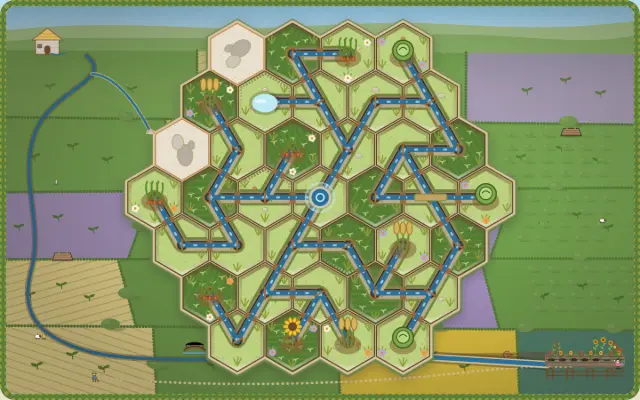
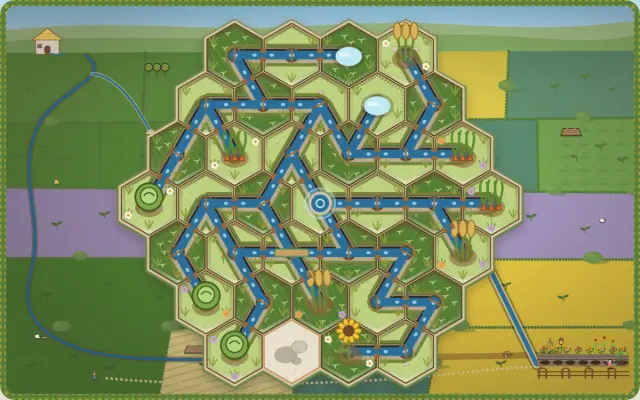
Runnel (plan item 646 slice 1): the channels cut 1.35x wider (banks, lips, hub) and the water a ribbon 1.75x item 97's, its glints sparser, so the water reads from across the room; key art re-shot
Claude-Session: https://claude.ai/code/session_01SimvMN1RHBGCWN7Eo7MzhN

diff --git a/games/runnel/src/board.ts b/games/runnel/src/board.ts
@@ -9,6 +9,10 @@ import { boardHexes, computeFlow, currentMask, DIRECTIONS, hashString, neighbour
 
 const SVG = 'http://www.w3.org/2000/svg'
 const S = 50 // hex circumradius in SVG units
+/** Plan item 646: the channel's width (banks, lips, hub) over item 61's, and the water's, so the water reads as a
+ *  running ribbon from across the room rather than a thin line (CSS widths scale with them). */
+const CW = 1.35
+const WATER_W = 1.75
 /** Plan item 264: how far a tile's side shows under its face (SVG units). */
 const TILE_SIDE = 5
 const APOTHEM = (S * Math.sqrt(3)) / 2
@@ -367,20 +371,20 @@ export class Board {
       const nx = -Math.sin(a)
       const ny = Math.cos(a)
       for (const side of [1, -1] as const) {
-        const o = 4.6 * side
+        const o = 4.6 * CW * side
         const line = el('line', { x1: nx * o, y1: ny * o, x2: end.x + nx * o, y2: end.y + ny * o, class: 'bank' }, grooves)
         view.banks.push({ line, dir: d, side })
         // Plan item 97: the cut edge on the shaded side throws a shadow down its wall (hidden on the sunlit side),
         // so the ditch reads as dug into the soil rather than laid on it.
-        const c = 7.9 * side
+        const c = 7.9 * CW * side
         const cast = el('line', { x1: nx * c, y1: ny * c, x2: end.x + nx * c, y2: end.y + ny * c, class: 'bank-cast' }, grooves)
         view.banks.push({ line: cast, dir: d, side })
         // The shaded wall's foot darkens into the damp bed (the sunlit wall stays lit to the bed).
-        const f = 3.6 * side
+        const f = 3.6 * CW * side
         const foot = el('line', { x1: nx * f, y1: ny * f, x2: end.x + nx * f, y2: end.y + ny * f, class: 'bank-foot' }, grooves)
         view.banks.push({ line: foot, dir: d, side })
         // A ragged cut edge: spoil from the digging thrown just past the lip, so the edge is not ruled.
-        const r = 11.4 * side
+        const r = 11.4 * CW * side
         const crumb = el('line', { x1: nx * r, y1: ny * r, x2: end.x + nx * r, y2: end.y + ny * r, class: 'lip-crumb' }, grooves)
         crumb.style.setProperty('stroke-dashoffset', `${((seed >>> (d * 3 + (side > 0 ? 1 : 0))) % 7) * 0.9}`)
       }
@@ -389,7 +393,7 @@ export class Board {
       const h = (seed >>> (d * 4)) & 0xff
       if (h % 3 !== 0) {
         const t = 0.4 + (h / 255) * 0.45
-        const o = ((h >> 2) % 3 - 1) * 1.3
+        const o = ((h >> 2) % 3 - 1) * 1.3 * CW
         el('circle', { cx: end.x * t + nx * o, cy: end.y * t + ny * o, r: 0.7 + (h % 2) * 0.35, class: 'pebble' }, grooves)
       }
       const water = el('line', { x1: 0, y1: 0, x2: end.x, y2: end.y, pathLength: 1, class: 'water' }, waters)
@@ -399,12 +403,12 @@ export class Board {
       const sh = el('line', { x1: 0, y1: 0, x2: end.x, y2: end.y, pathLength: 1, class: 'shimmer' }, shimmer)
       sh.dataset.dir = String(d)
     }
-    el('circle', { r: S * 0.2 + 1.6, class: 'hub-cut' }, cuts)
-    el('circle', { r: S * 0.2, class: 'hub-lip' }, lips)
-    el('circle', { r: S * 0.17, class: 'hub-groove' }, grooves)
-    el('circle', { r: S * 0.155, class: 'hub-basin' }, grooves)
-    el('circle', { r: S * 0.1, class: 'hub-bed' }, grooves)
-    el('circle', { r: S * 0.1, class: 'hub-water' }, waters)
+    el('circle', { r: S * 0.2 * CW + 1.6, class: 'hub-cut' }, cuts)
+    el('circle', { r: S * 0.2 * CW, class: 'hub-lip' }, lips)
+    el('circle', { r: S * 0.17 * CW, class: 'hub-groove' }, grooves)
+    el('circle', { r: S * 0.155 * CW, class: 'hub-basin' }, grooves)
+    el('circle', { r: S * 0.1 * WATER_W, class: 'hub-bed' }, grooves)
+    el('circle', { r: S * 0.1 * WATER_W, class: 'hub-water' }, waters)
     // Plan item 323: the hub is a small wooden sluice, not a grey washer: a plank rim (CSS), and a gate board on two
     // posts across it, square to the first channel, turning with the tile.
     const first = view.spokeDirs[0] ?? 0

diff --git a/games/runnel/src/styles.css b/games/runnel/src/styles.css
@@ -5402,3 +5402,13 @@ body:has(.tiles > g.cell.lesson-target) #hint { visibility: hidden; }
 /* (and 'The month' tab: its name on one line, centred with the summary beside it) */
 .rail-more-tab { align-items: center; }
 .rail-more-tab > span:first-child { white-space: nowrap; }
+
+/* Plan item 646: a wider channel (x1.35, board.ts CW) carrying a ribbon of water ~1.75x item 97's (WATER_W), so the
+   water reads as running water from across the room, not a line. */
+.groove { stroke-width: 25.6; }
+.groove-lip { stroke-width: 29.7; }
+.groove-cut { stroke-width: 34; }
+.bank { stroke-width: 12.4; }
+.groove-bed { stroke-width: 11.4; }
+.water { stroke-width: 13.1; }
+.shimmer { stroke-width: 4.6; stroke-dasharray: 0.05 0.6; }
